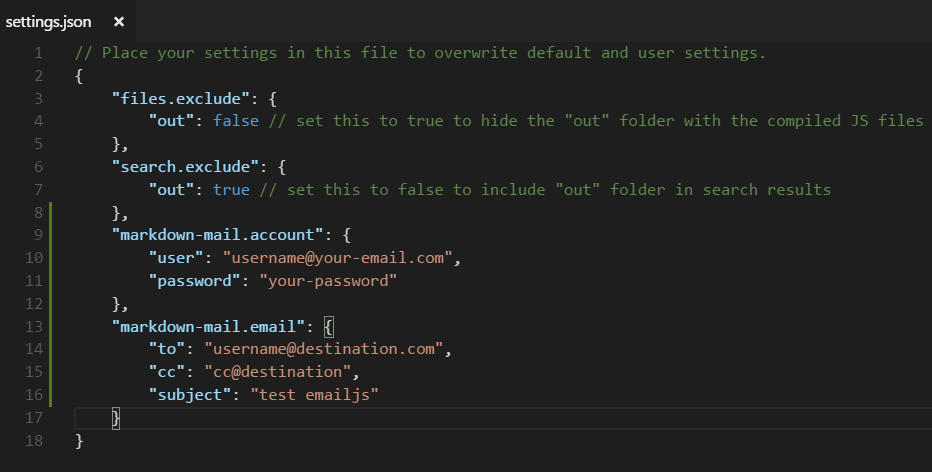
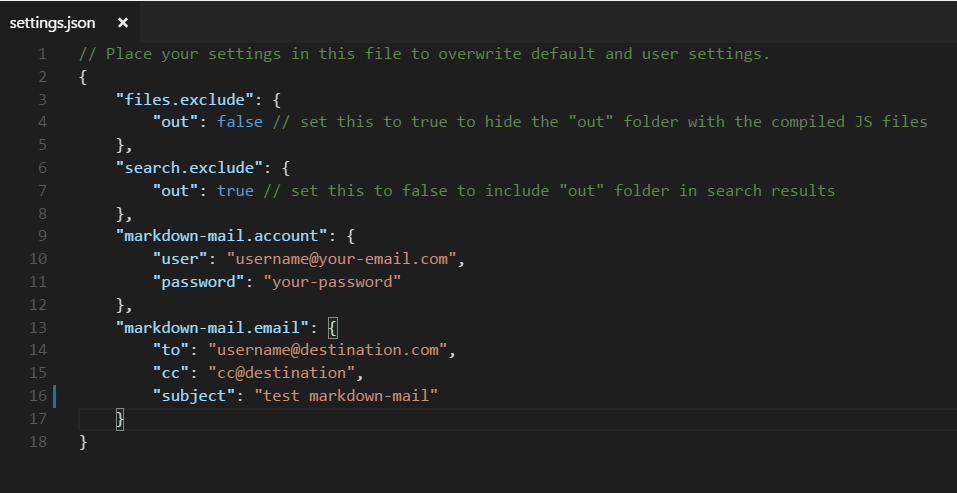
Beautify readme

diff --git a/README.md b/README.md
@@ -1,11 +1,11 @@
 # Markdown Mail README
 
-**Markdown Mail! Make mail Great Again!**Just write with Markdown and
+**Markdown Mail! Make mail Great Again!** Just write with Markdown and
 type "**ctrl+shift+p**" (Mac: '**cmd+shift+p**'), which brings up the 
 **Command Palette**. From here, you type "**send**" and select "**Send My Email**"
 and you are good to go. A few seconds later, your email should arrive destination.
 
-First of all.Config your email accout and email setting! [See Here](#Settings)
+First of all. Config your email accout and email setting! [See Here](#Settings)
 
 ## Features
 
@@ -15,7 +15,7 @@ First of all.Config your email accout and email setting! [See Here](#Settings)
 ![WordCount](resources/word-count.png)
 
 ### Markdown and Send!
-  Write your email leverage the power of markdown and send the email to your friend.
+  Write your email leveraging the power of markdown and send the email to your friend.
 
 ![send](resources/send.png)
 
@@ -30,26 +30,27 @@ First of all.Config your email accout and email setting! [See Here](#Settings)
 
 <h2 id="Settings">Extension Settings</h2>
 
-Open your workspace setting in '**./vscode/settings.json**' or config vscode's user setting globally
+>Open your workspace setting in '**./vscode/settings.json**' or vscode's user setting globally
 
 ![Extension Config](resources/extension-config.png)
 
-* `markdown-mail.account`: Config your email account. Such as:
-```
-{
-  "user": "username@your-email.com",
-  "password": "your password"
-}
-```
-* `markdown-mail.email`: Everytime your want send a email, config your email first!
-Sorry for this inconvenience, but I have to know whom you want to send to? what subject? And maybe cc 😀
-```
-{
-  "to": "username@destination.com",
-  "subject": "test emailjs",
-  "cc": "cc@destination" // optinal
-}
-```
+>> Add Configuration shown in figure above
+  * `markdown-mail.account`: Config your email account. Such as:
+  ```
+  {
+    "user": "username@your-email.com",
+    "password": "your-password"
+  }
+  ```
+  * `markdown-mail.email`: Everytime your want send a email, config your email first!
+  Sorry for this inconvenience, but I have to know whom you want to send to, what subject, and maybe cc. 😀
+  ```
+  {
+    "to": "username@destination.com",
+    "subject": "test markdown-mail",
+    "cc": "cc@destination" // optional
+  }
+  ```
 ## Known Issues
 
 Sent Email may be regarded as junk mail and rejected.
